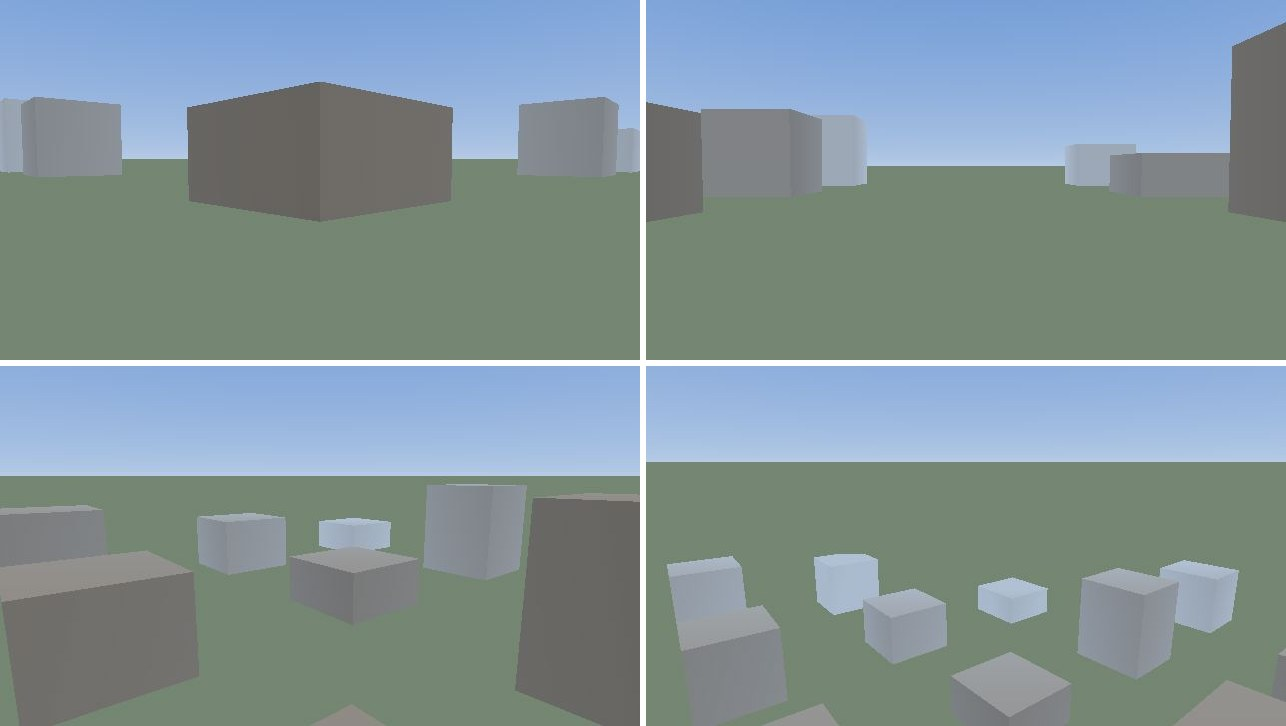
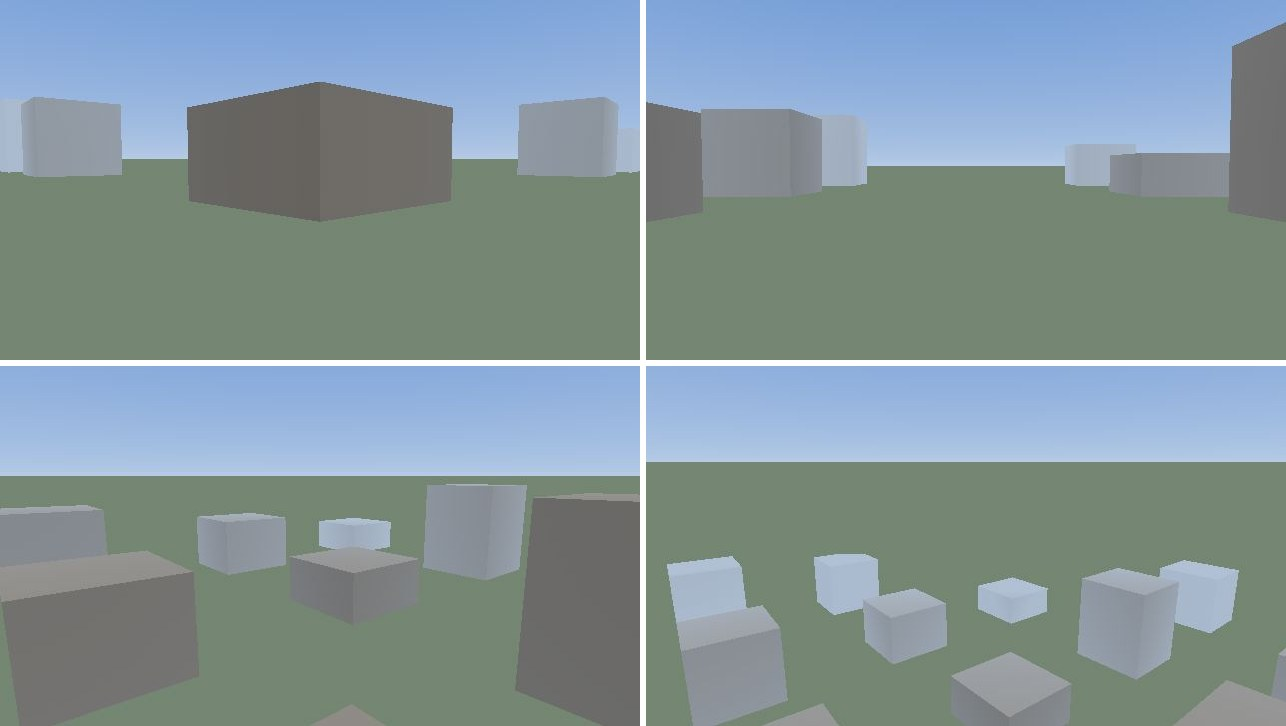
Address review: two real drawing bugs, an unhandled throw, and a frame leak
CodeRabbit found more than nits. In order of how much they mattered:

- The ray caster's synthesized ground hit left is_ground false, so every pixel
  taking that fallback was painted building grey on the ground plane. I
  introduced this in the same change that stopped guessing from the normal —
  the fallback constructs its own RayHit and I did not update it.
- The two camera routes parsed vehicle ids with std::stoul, which throws on
  anything wider than unsigned long. /vehicles/99999999999999999999/camera.jpg
  was an uncaught exception; every other handler in the file already used
  strtoul, which saturates.
- Frames of despawned vehicles were never dropped, so the camera route kept
  serving a picture of an aircraft that no longer existed and FrameStore grew
  for the life of the process. The pose list is already the whole fleet, so it
  is the natural owner of "which vehicles exist": anything absent is retained no
  longer. sim_time_s is carried through from the tick rather than stored as 0,
  so a consumer can tell a fresh frame from a stalled one.
- The rasteriser hazed against camera-space depth while the ray caster used
  radial distance — about 25% apart at the edge of a 78 degree frame, on a pair
  of renderers whose shared header says they must draw the same picture. Both
  now work in squared distance, which also removes a division: 0.67 -> 0.58
  ms/frame.
- haze_at divided by max_range_m without checking it, and the NaN survived all
[…]

diff --git a/src/render/raster.cpp b/src/render/raster.cpp
@@ -190,6 +190,19 @@ void Rasterizer::draw_background(const Camera &camera, Image &image, int y0, int
 
 void Rasterizer::fill_band(const std::vector<ScreenTriangle> &tris, Image &image, std::vector<float> &depth,
                            int y0, int y1) const {
+    // Per-axis tangent offsets, so a pixel's camera-space depth can be turned
+    // into its radial distance with two adds and a multiply. Squared, because
+    // the only consumer squares them again.
+    const double tan_x = std::tan((cfg_.fov_deg * M_PI / 180.0) * 0.5);
+    const double tan_y = tan_x * cfg_.height / cfg_.width;
+    const double max_range_sq = cfg_.max_range_m * cfg_.max_range_m;
+
+    std::vector<double> kx(static_cast<size_t>(cfg_.width));
+    for (int x = 0; x < cfg_.width; ++x) {
+        const double sx = ((x + 0.5) / cfg_.width) * 2.0 - 1.0;
+        kx[static_cast<size_t>(x)] = (sx * tan_x) * (sx * tan_x);
+    }
+
     for (const ScreenTriangle &t : tris) {
         if (t.max_y < y0 || t.min_y >= y1) {
             continue; // not in this band
@@ -208,6 +221,8 @@ void Rasterizer::fill_band(const std::vector<ScreenTriangle> &tris, Image &image
 
         for (int y = ys; y <= ye; ++y) {
             const float py = y + 0.5f;
+            const double sy = 1.0 - ((y + 0.5) / cfg_.height) * 2.0;
+            const double ky_row = (sy * tan_y) * (sy * tan_y);
             for (int x = xs; x <= xe; ++x) {
                 const float px = x + 0.5f;
 
@@ -236,7 +251,15 @@ void Rasterizer::fill_band(const std::vector<ScreenTriangle> &tris, Image &image
                 // Haze grows with distance but never fully erases a surface:
                 // capped, so the far edge of the draw distance reads as far away
                 // rather than as blank sky.
-                const double haze = haze_at(z, cfg_.max_range_m);
+                //
+                // Against radial distance, not z. z is depth along the camera's
+                // forward axis, and at the edge of a 78 degree frame that is
+                // ~25% short of how far the surface actually is — enough that the
+                // same wall hazed differently here than in the ray caster, which
+                // shading.h says must not happen. Squared throughout, so the
+                // conversion costs a multiply instead of a square root per pixel.
+                const double radial_sq = static_cast<double>(z) * z * (1.0 + kx[x] + ky_row);
+                const double haze = haze_at_sq(radial_sq, max_range_sq);
 
                 const size_t pi = (static_cast<size_t>(y) * cfg_.width + x) * 3;
                 for (int c = 0; c < 3; ++c) {

diff --git a/tests/test_render.cpp b/tests/test_render.cpp
@@ -170,8 +170,12 @@ int main() {
     const std::vector<uint8_t> jpeg = skysim::render::encode_jpeg(img, 70);
     CHECK(jpeg.size() > 256);
     CHECK(jpeg.size() < img.rgb.size()); // compression actually happened
-    CHECK(jpeg[0] == 0xFF && jpeg[1] == 0xD8); // SOI
-    CHECK(jpeg[jpeg.size() - 2] == 0xFF && jpeg[jpeg.size() - 1] == 0xD9); // EOI
+    // Guarded: CHECK keeps going after a failure, and indexing an empty buffer
+    // would crash the run instead of reporting which assertion failed.
+    if (jpeg.size() >= 4) {
+        CHECK(jpeg[0] == 0xFF && jpeg[1] == 0xD8);                             // SOI
+        CHECK(jpeg[jpeg.size() - 2] == 0xFF && jpeg[jpeg.size() - 1] == 0xD9); // EOI
+    }
 
     // --- An empty image encodes to nothing rather than crashing. ---
     CHECK(skysim::render::encode_jpeg(skysim::render::Image{}, 70).empty());
@@ -225,6 +229,16 @@ int main() {
         store.erase(1);
         CHECK(store.get(1).jpeg.empty());
         store.erase(404); // erasing a vehicle that was never there is not an error
+
+        // A despawned vehicle's last frame must go with it, or the camera route
+        // serves a picture of an aircraft that no longer exists.
+        store.publish(1, {1}, 1.0);
+        store.publish(2, {2}, 1.0);
+        store.retain({2});
+        CHECK(store.get(1).jpeg.empty());
+        CHECK(!store.get(2).jpeg.empty());
+        store.retain({}); // whole fleet gone
+        CHECK(store.get(2).jpeg.empty());
     }
 
     // --- RenderService draws on its own thread, off its own world. ---
@@ -253,6 +267,7 @@ int main() {
         pose.vehicle_id = 1;
         pose.position_ned = pos;
         pose.quat_ned_frd = level;
+        pose.sim_time_s = 12.5;
         service.publish_poses({pose});
 
         std::vector<uint8_t> frame;
@@ -263,6 +278,16 @@ int main() {
         CHECK(!frame.empty());
         CHECK(frame.size() > 2 && frame[0] == 0xFF && frame[1] == 0xD8); // a real JPEG
         CHECK(service.frame(2).empty());                                 // only the posed vehicle
+
+        // Despawn it: the next pass must drop the frame rather than keep serving
+        // a picture of a vehicle that is gone.
+        service.publish_poses({});
+        bool cleared = false;
+        for (int i = 0; i < 200 && !cleared; ++i) {
+            std::this_thread::sleep_for(std::chrono::milliseconds(10));
+            cleared = service.frame(1).empty();
+        }
+        CHECK(cleared);
 
         std::filesystem::remove_all(tiles);
     } // ~RenderService must stop and join its thread rather than hang here

diff --git a/src/api/control_server.cpp b/src/api/control_server.cpp
@@ -16,13 +16,10 @@
 namespace skysim::api {
 
 namespace {
+
 // Two long-lived camera streams per vehicle, plus headroom for the control
 // plane, which must stay answerable while they run.
 constexpr size_t kWorkerThreads = 64;
-} // namespace
-
-
-namespace {
 
 // {"launch_process":true} — absent key means false.
 bool parse_launch_process(const std::string &body) {
@@ -354,8 +351,11 @@ ControlServer::ControlServer(const std::string &bind_addr, int port, CommandQueu
             res.set_content("{\"error\":\"camera disabled\"}", "application/json");
             return;
         }
+        // strtoul, not stoul: the route regex accepts any number of digits, and
+        // stoul throws on a value too big for the type. Saturating is the same
+        // answer as "no such vehicle" without the exception.
         std::vector<uint8_t> jpeg = snapshots.camera_frame(
-            static_cast<uint32_t>(std::stoul(req.matches[1].str())));
+            static_cast<uint32_t>(std::strtoul(req.matches[1].str().c_str(), nullptr, 10)));
         if (jpeg.empty()) {
             res.status = 404;
             res.set_content("{\"error\":\"no frame\"}", "application/json");
@@ -375,7 +375,7 @@ ControlServer::ControlServer(const std::string &bind_addr, int port, CommandQueu
             res.set_content("{\"error\":\"camera disabled\"}", "application/json");
             return;
         }
-        const auto id = static_cast<uint32_t>(std::stoul(req.matches[1].str()));
+        const auto id = static_cast<uint32_t>(std::strtoul(req.matches[1].str().c_str(), nullptr, 10));
         res.set_chunked_content_provider(
             "multipart/x-mixed-replace; boundary=skysimframe",
             [snapshots, id](size_t /*offset*/, httplib::DataSink &sink) {

diff --git a/src/main.cpp b/src/main.cpp
@@ -187,6 +187,22 @@ Options parse_args(int argc, char **argv) {
         std::fprintf(stderr, "skysim: invalid options (--time-mode strict|interactive)\n");
         std::exit(2);
     }
+    // These three change timing or thread counts rather than failing outright, so
+    // an out-of-range value does not announce itself: a negative thread count is
+    // an undefined pool size, a grace above 1 stretches every tick past its
+    // period, and stb quietly reads quality 0 as 90.
+    if (o.camera_threads < 1) {
+        std::fprintf(stderr, "skysim: --camera-threads must be at least 1\n");
+        std::exit(2);
+    }
+    if (o.camera_quality < 1 || o.camera_quality > 100) {
+        std::fprintf(stderr, "skysim: --camera-quality must be 1-100\n");
+        std::exit(2);
+    }
+    if (o.frame_grace < 0.0 || o.frame_grace > 1.0) {
+        std::fprintf(stderr, "skysim: --frame-grace must be 0.0-1.0 (a fraction of the tick period)\n");
+        std::exit(2);
+    }
     return o;
 }
 
@@ -705,10 +721,11 @@ struct App {
         if (!render_service) {
             return;
         }
+        const double now = world ? world->now() : 0.0;
         std::vector<skysim::render::RenderService::Pose> poses;
         poses.reserve(fleet.size());
         for (const auto &v : fleet) {
-            poses.push_back({v->vehicle_id, v->state.pos_ned, v->state.quat_ned_frd});
+            poses.push_back({v->vehicle_id, v->state.pos_ned, v->state.quat_ned_frd, now});
         }
         render_service->publish_poses(std::move(poses));
     }

diff --git a/src/render/shading.h b/src/render/shading.h
@@ -57,9 +57,21 @@ inline void sky_colour(const core::Vec3 &dir, double out[3]) {
 }
 
 //: How much haze sits between the camera and something this far away.
+//: Squared form, for callers that have a squared distance already. The rasteriser
+//: does: turning its camera-space depth into a true radial distance needs a square
+//: root per pixel, and haze only ever squares the ratio again.
+inline double haze_at_sq(double distance_sq, double max_range_sq) {
+    // A non-positive range would divide by zero, and the NaN survives clamp and
+    // min all the way to a cast that is undefined behaviour. Nothing is visible
+    // at zero range anyway, so everything is as hazy as it gets.
+    if (!(max_range_sq > 0.0)) {
+        return kMaxHaze;
+    }
+    return std::min(std::clamp(distance_sq / max_range_sq, 0.0, 1.0), kMaxHaze);
+}
+
 inline double haze_at(double distance_m, double max_range_m) {
-    const double fog = std::clamp(distance_m / max_range_m, 0.0, 1.0);
-    return std::min(fog * fog, kMaxHaze);
+    return haze_at_sq(distance_m * distance_m, max_range_m * max_range_m);
 }
 
 } // namespace skysim::render

diff --git a/src/render/render_service.cpp b/src/render/render_service.cpp
@@ -60,6 +60,16 @@ void RenderService::run() {
             poses = poses_;
         }
 
+        // The pose list is the whole fleet, so anything not in it has despawned.
+        // Dropping their frames here rather than hooking despawn keeps one owner
+        // of the question "which vehicles exist" — this list, once a tick.
+        std::vector<uint32_t> live;
+        live.reserve(poses.size());
+        for (const Pose &pose : poses) {
+            live.push_back(pose.vehicle_id);
+        }
+        frames_.retain(live);
+
         for (const Pose &pose : poses) {
             if (stop_.load(std::memory_order_relaxed)) {
                 break;
@@ -68,7 +78,7 @@ void RenderService::run() {
             const Image image = rasterizer_->render(scene_, camera, pool_.get());
             auto jpeg = encode_jpeg(image, cfg_.quality);
             if (!jpeg.empty()) {
-                frames_.publish(pose.vehicle_id, std::move(jpeg), 0.0);
+                frames_.publish(pose.vehicle_id, std::move(jpeg), pose.sim_time_s);
             }
         }
 

diff --git a/src/render/frame_store.h b/src/render/frame_store.h
@@ -1,6 +1,8 @@
 #pragma once
 
+#include <algorithm>
 #include <cstdint>
+#include <iterator>
 #include <mutex>
 #include <unordered_map>
 #include <vector>
@@ -42,6 +44,19 @@ class FrameStore {
     void erase(uint32_t vehicle_id) {
         std::lock_guard<std::mutex> lock(mutex_);
         frames_.erase(vehicle_id);
+    }
+
+    // Drop every vehicle not in `keep`.
+    //
+    // Without this a despawned vehicle's last frame outlives it: the camera route
+    // keeps serving a picture for an aircraft that no longer exists, instead of
+    // the 404 the caller needs to see, and the map grows for the life of the
+    // process as ids churn.
+    void retain(const std::vector<uint32_t> &keep) {
+        std::lock_guard<std::mutex> lock(mutex_);
+        for (auto it = frames_.begin(); it != frames_.end();) {
+            it = std::find(keep.begin(), keep.end(), it->first) == keep.end() ? frames_.erase(it) : std::next(it);
+        }
     }
 
   private:

diff --git a/src/core/world.h b/src/core/world.h
@@ -111,8 +111,10 @@ class World {
     struct RayHit {
         bool hit{false};
         double distance{-1.0};
-        Vec3 normal_ned{0.0, 0.0, -1.0}; // unit, points back towards the ray
-        bool is_ground{false};           // the ground slab, as opposed to a building
+        // Unit outward surface normal of the body that was hit. Not oriented against
+        // the ray: a hit on a back face returns a normal pointing away from the eye.
+        Vec3 normal_ned{0.0, 0.0, -1.0};
+        bool is_ground{false}; // the ground slab, as opposed to a building
     };
 
     RayHit raycast_surface(const Vec3 &origin_ned, const Vec3 &dir_ned, double max_dist_m,

diff --git a/tools/render_probe/main.cpp b/tools/render_probe/main.cpp
@@ -150,7 +150,16 @@ int main(int argc, char **argv) {
     }
 
     std::ofstream f(o.out, std::ios::binary);
+    if (!f) {
+        std::fprintf(stderr, "render_probe: cannot open %s\n", o.out.c_str());
+        return 1;
+    }
     f.write(reinterpret_cast<const char *>(jpeg.data()), static_cast<std::streamsize>(jpeg.size()));
+    f.close();
+    if (!f) {
+        std::fprintf(stderr, "render_probe: failed writing %s\n", o.out.c_str());
+        return 1;
+    }
     std::printf("render_probe: wrote %s (%zu bytes, %dx%d)\n", o.out.c_str(), jpeg.size(), image.width, image.height);
     return 0;
 }

diff --git a/src/render/render_service.h b/src/render/render_service.h
@@ -47,6 +47,9 @@ class RenderService {
         uint32_t vehicle_id{0};
         core::Vec3 position_ned{};
         core::Quat quat_ned_frd{1.0, 0.0, 0.0, 0.0};
+        // When the tick that produced this pose happened, carried through to the
+        // frame so a consumer can tell a fresh picture from a stalled one.
+        double sim_time_s{0.0};
     };
 
     explicit RenderService(const Config &cfg);

diff --git a/src/render/renderer.cpp b/src/render/renderer.cpp
@@ -64,6 +64,7 @@ void Renderer::render_rows(const core::World &world, const Camera &camera, uint3
                 hit.hit = true;
                 hit.distance = ground_dist;
                 hit.normal_ned = {0.0, 0.0, -1.0}; // ground faces up; NED up is -z
+                hit.is_ground = true;              // it is the ground, so say so, or it draws grey
             }
 
             double colour[3];

diff --git a/README.md b/README.md
@@ -86,9 +86,9 @@ Read in depth: [`docs/PROTOCOL.md`](docs/PROTOCOL.md) → [`docs/DESIGN.md`](doc
 
 ## Getting started
 
-One command, and the only prerequisites are the build tools. It builds skysim, cooks a
-1.2 km demo city, and renders it from four camera poses — the same rasteriser that feeds
-a vehicle's camera stream in flight, so what you get is what a drone would see:
+One command. It builds skysim, cooks a 1.2 km demo city, and renders it from four camera
+poses — the same rasteriser that feeds a vehicle's camera stream in flight, so what you
+get is what a drone would see:
 
 ```bash
 tools/getting_started.sh
@@ -96,9 +96,10 @@ tools/getting_started.sh
 
 ![Four views of the demo city rendered by skysim](.github/assets/skysim-getting-started.jpg)
 
-Images land in `build/getting_started/`. Nothing above needs ArduPilot, a network or a
-running simulator — it is there so you can see the thing work before committing to the
-half hour the autopilot build takes.
+Images land in `build/getting_started/`. Needs the build tools, Python 3, and — on a
+clean checkout — network access, because CMake fetches JoltPhysics, cpp-httplib and stb.
+It does **not** need ArduPilot or a running simulator, which is the point: you can see
+the thing work before committing to the half hour the autopilot build takes.
 
 Once you do have ArduPilot (see below), the same script will fly a vehicle through that
 city and serve its camera live:
